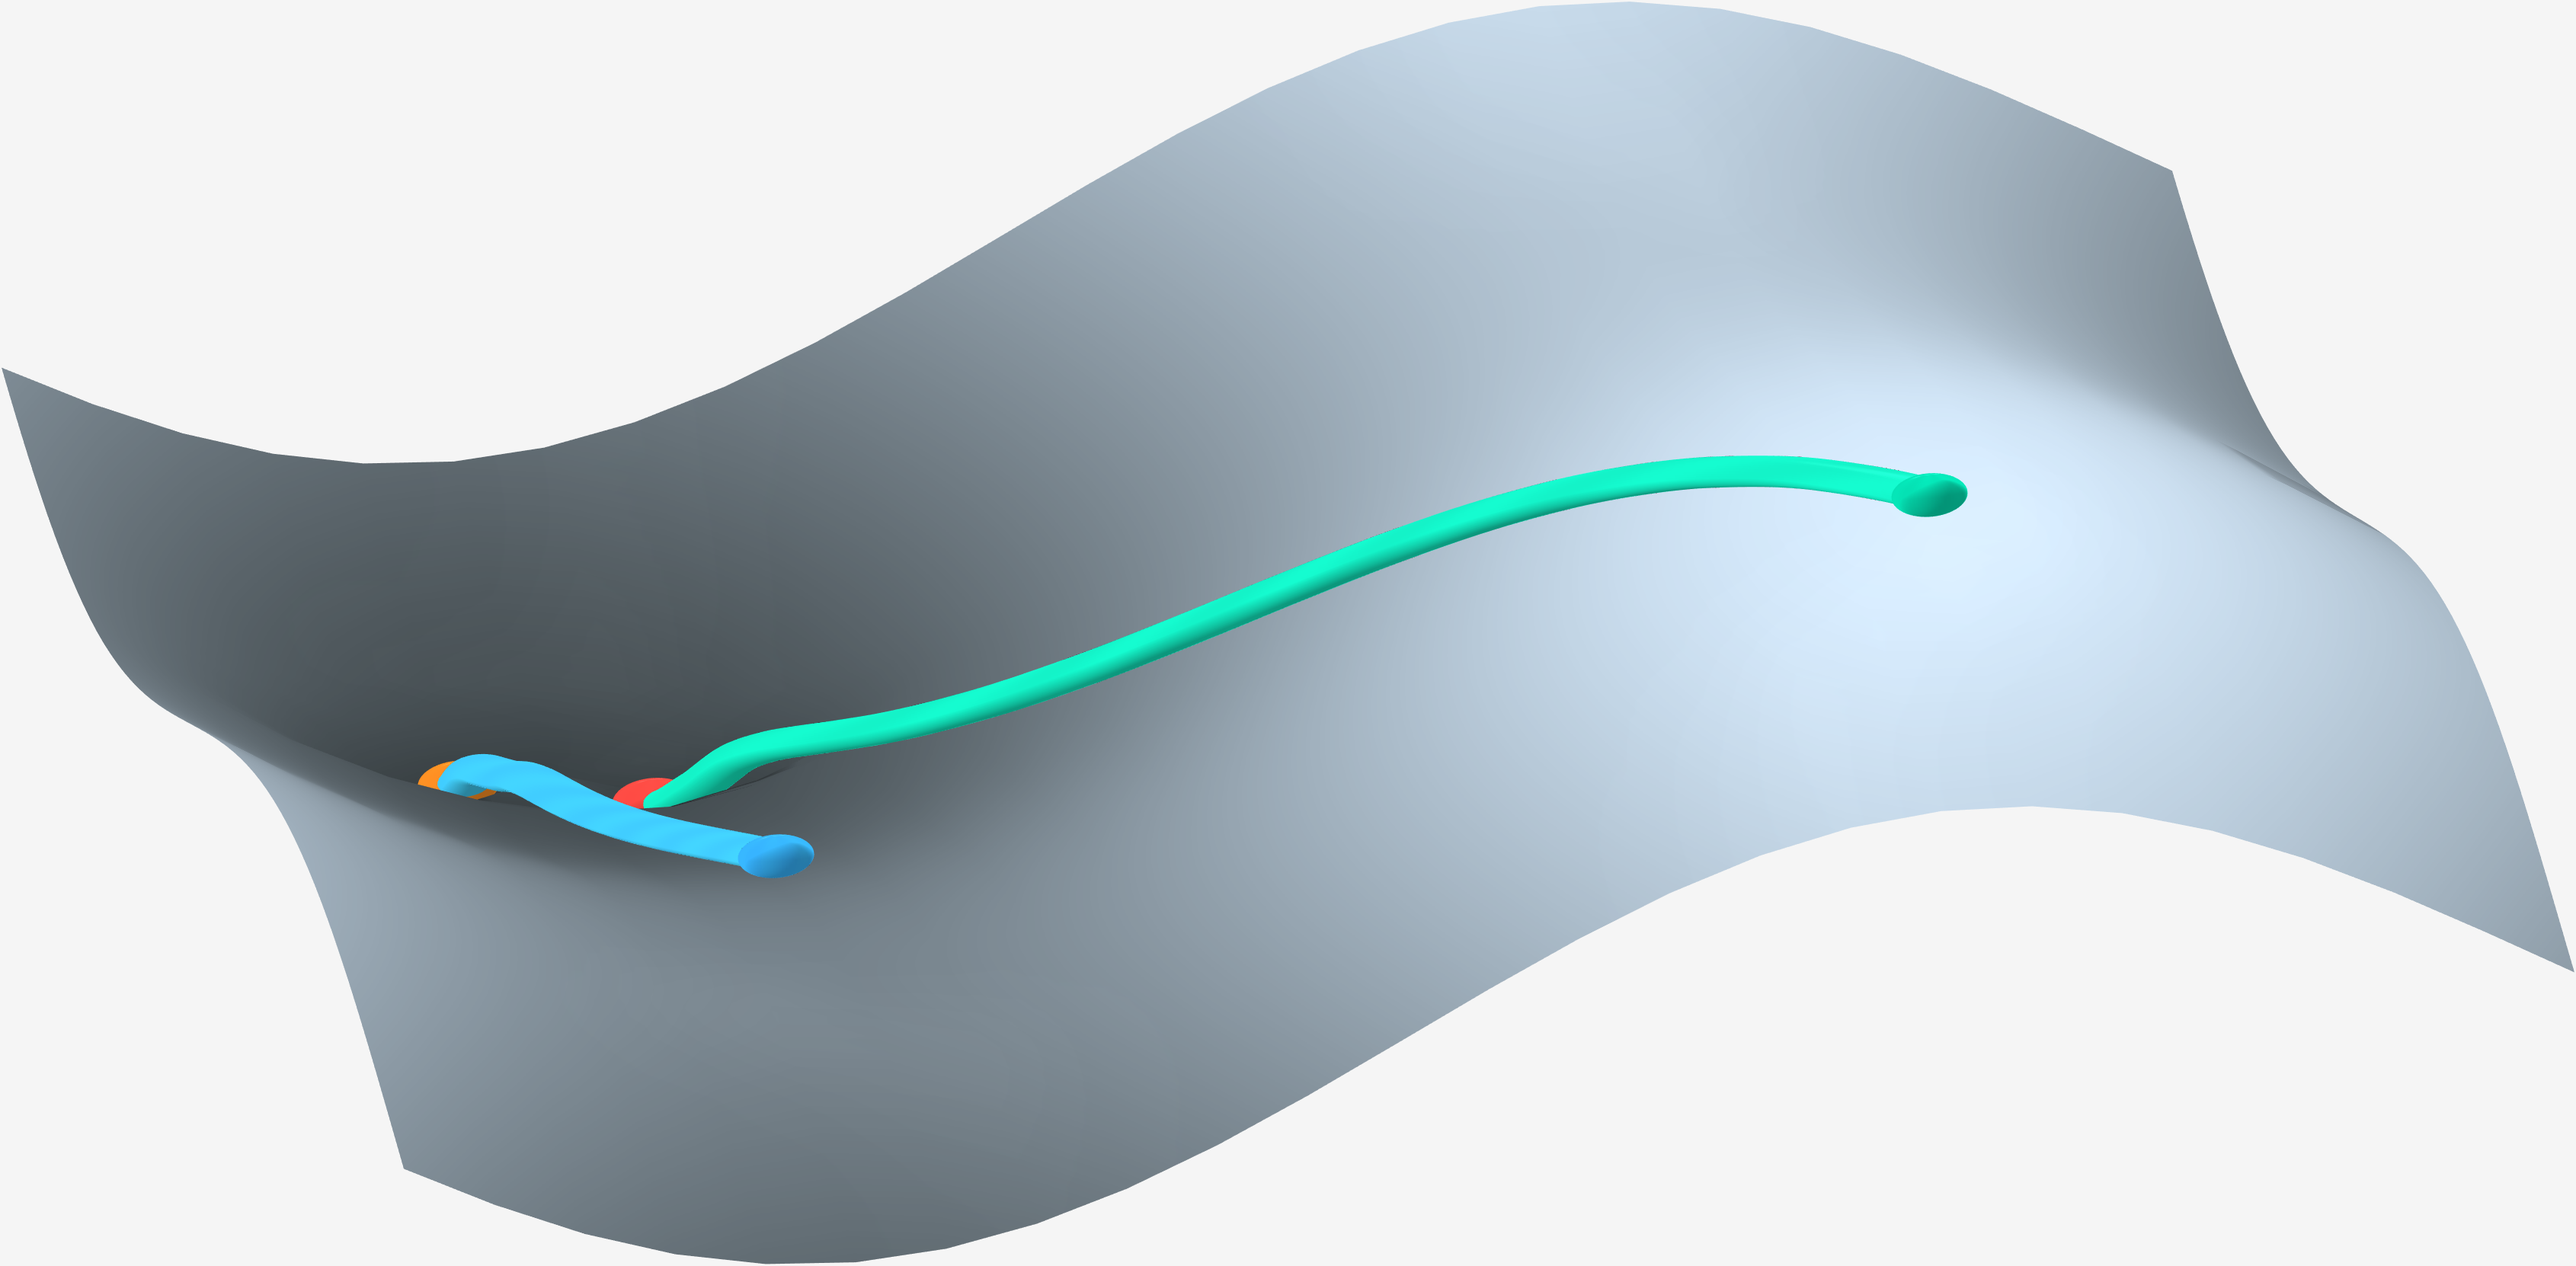
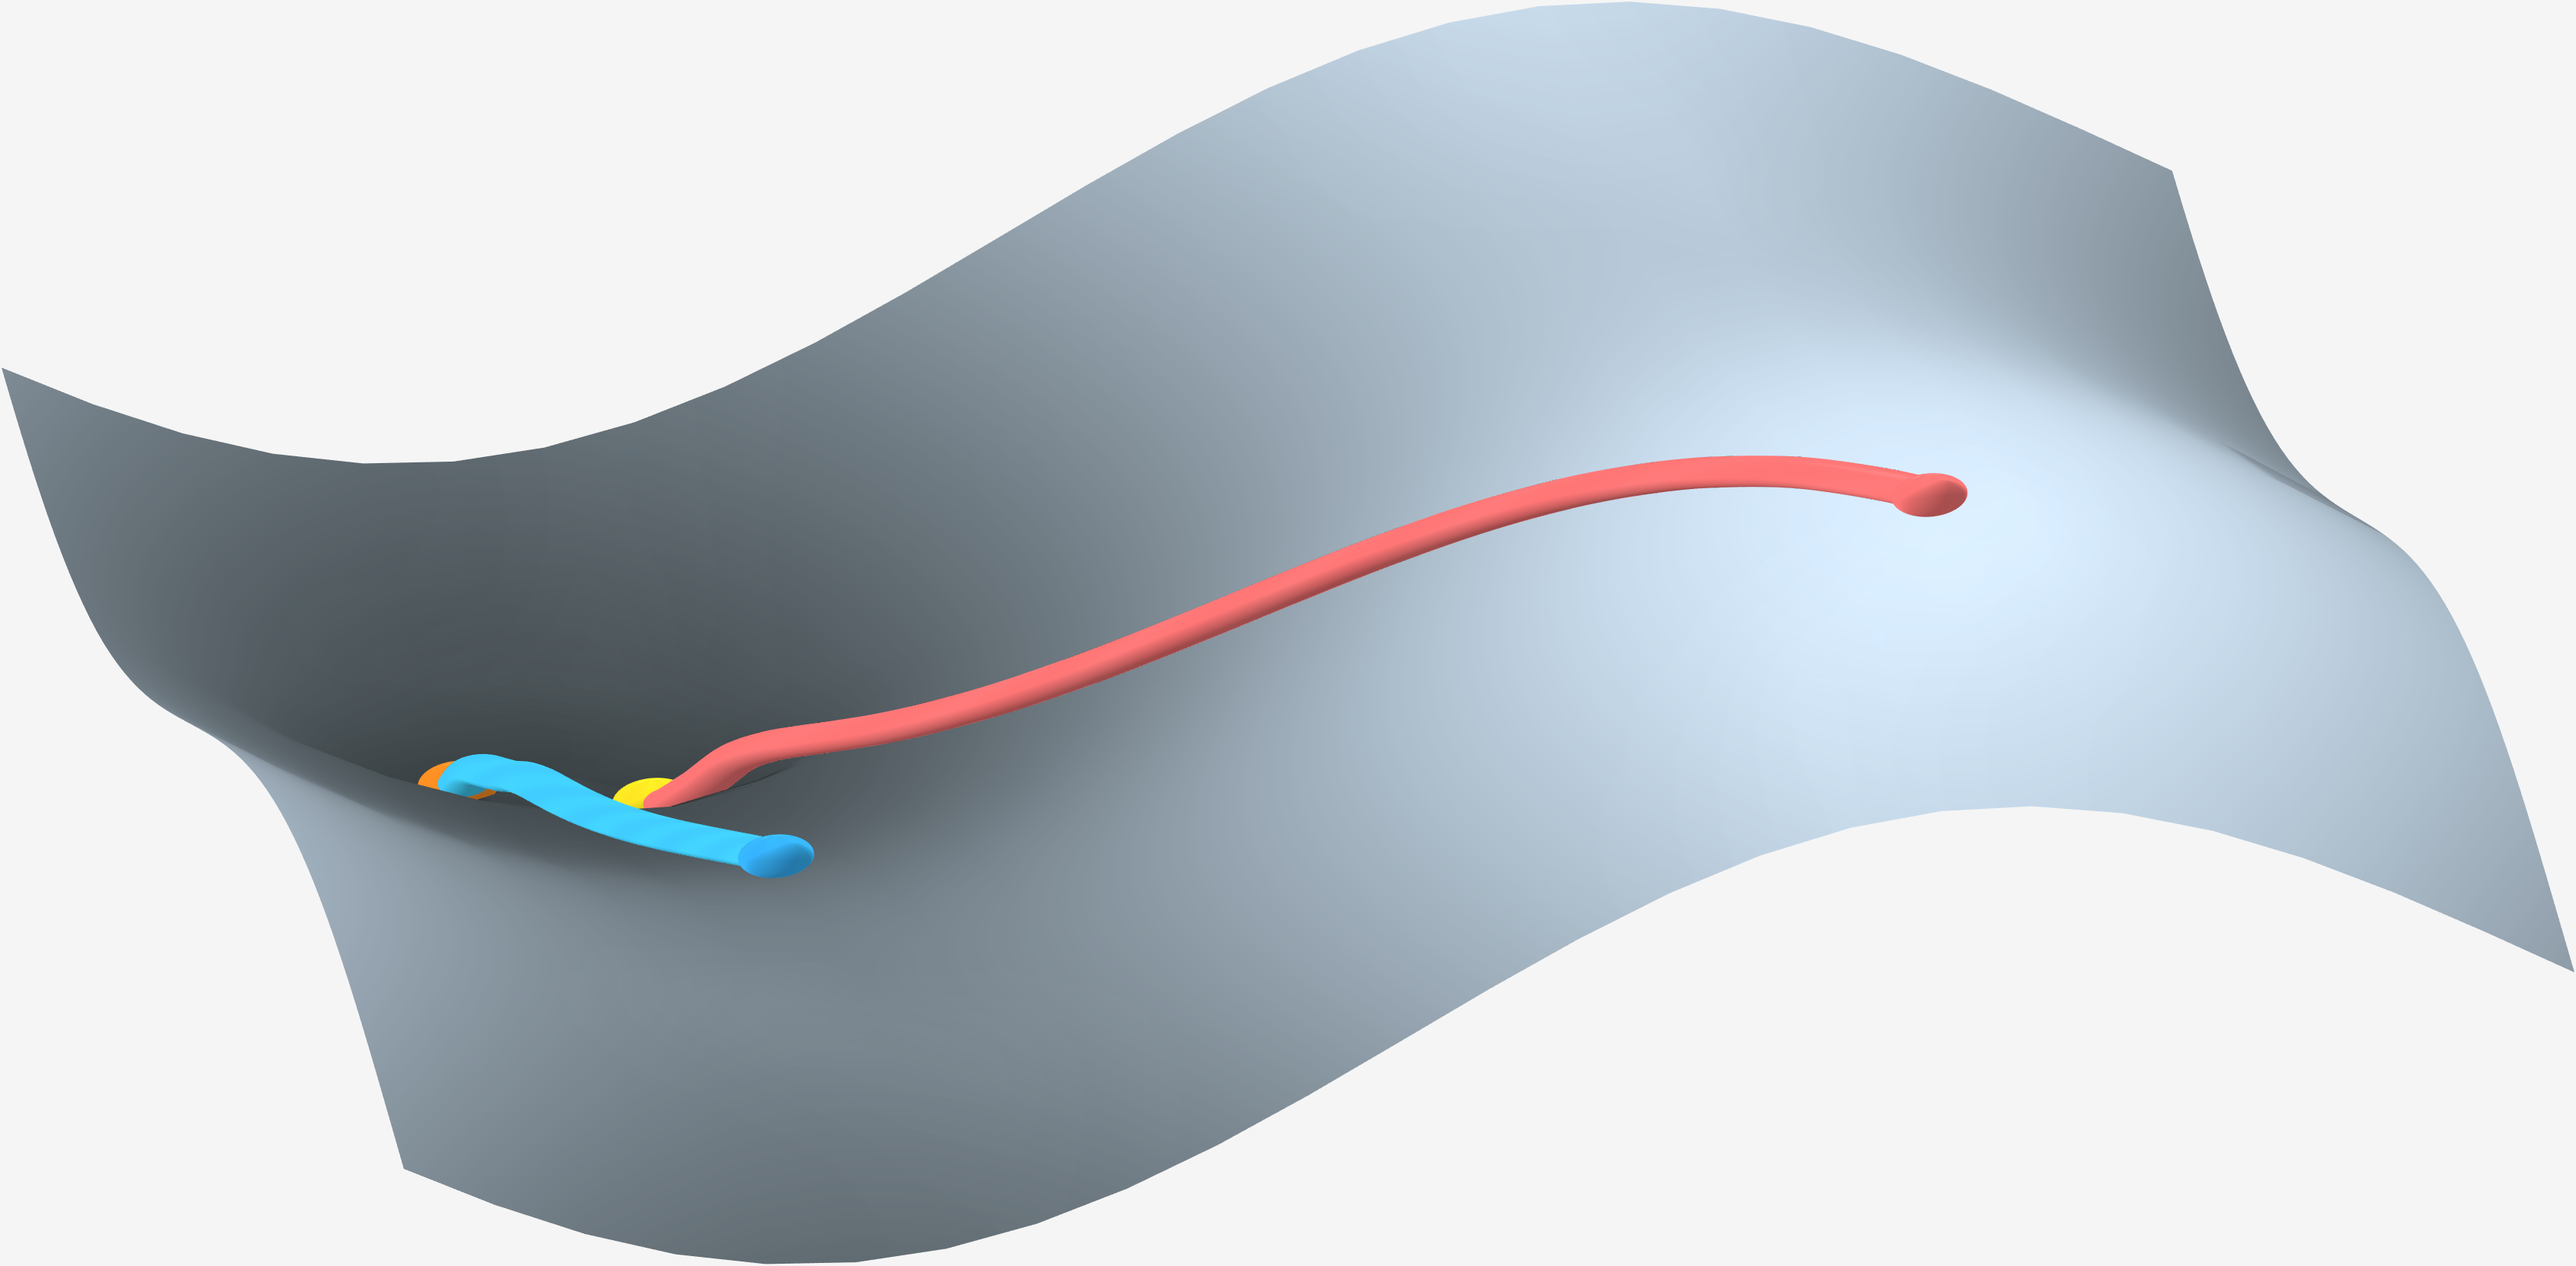
change color

Changed region(s): [[0.2174, 0.3375, 0.7764, 0.6444]]

diff --git a/PEL3D.m b/PEL3D.m
@@ -52,11 +52,11 @@ cfg.ball3_scale = 1.08;
 
 % Appearance controls.
 cfg.figure_bg = [0.96 0.96 0.96];
-cfg.rope_color_1 = [0.06 0.95 0.78];
+cfg.rope_color_1 = [1.00 0.45 0.45];
 cfg.rope_color_2 = [0.24 0.80 1.00];
-cfg.ball_color_1 = [0.00 0.88 0.70];
+cfg.ball_color_1 = [1.00 0.45 0.45];
 cfg.ball_color_2 = [0.20 0.70 1.00];
-cfg.ball_color_3 = [1.00 0.28 0.25];
+cfg.ball_color_3 = [1.00 0.90 0.12];
 
 % Surface variant controls.
 cfg.surface_variant = mode; % "original" or "lm"
